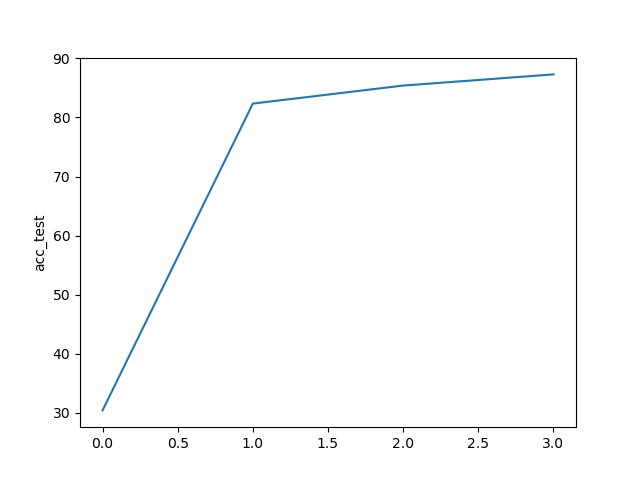
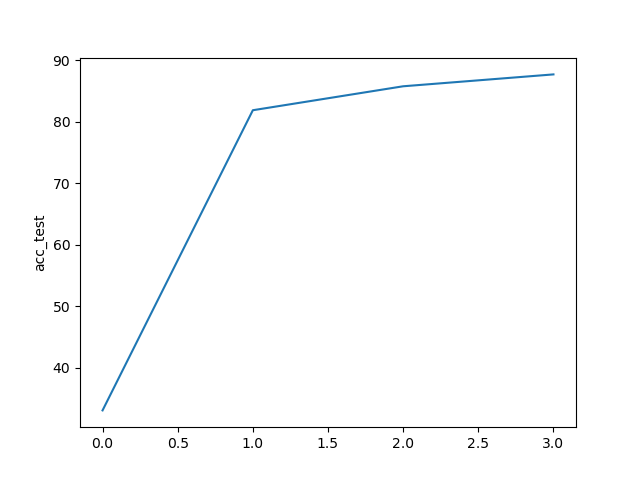
pdf figure

diff --git a/utils/options.py b/utils/options.py
@@ -9,18 +9,18 @@ import datetime
 def args_parser():
     parser = argparse.ArgumentParser()
     # federated arguments
-    parser.add_argument('--epochs', type=int, default=100, help="rounds of training")
+    parser.add_argument('--epochs', type=int, default=300, help="rounds of training")
     parser.add_argument('--num_users', type=int, default=8, help="number of users: K")
     parser.add_argument('--frac', type=float, default=0.1, help="the fraction of clients: C")
     parser.add_argument('--local_ep', type=int, default=1, help="the number of local epochs: E")
     parser.add_argument('--local_bs', type=int, default=32, help="local batch size: B")
     parser.add_argument('--bs', type=int, default=32, help="test batch size")
     parser.add_argument('--lr', type=float, default=0.01, help="learning rate")
-    parser.add_argument('--momentum', type=float, default=0.5, help="SGD momentum (default: 0.5)")
+    parser.add_argument('--momentum', type=float, default=0.95, help="SGD momentum (default: 0.5)")
     parser.add_argument('--split', type=str, default='user', help="train-test split type, user or sample")
 
     # model arguments
-    parser.add_argument('--model', type=str, default='mlp', help='model name')
+    parser.add_argument('--model', type=str, default='resnet18', help='model name')
     parser.add_argument('--kernel_num', type=int, default=9, help='number of each kind of kernel')
     parser.add_argument('--kernel_sizes', type=str, default='3,4,5',
                         help='comma-separated kernel size to use for convolution')
@@ -30,7 +30,7 @@ def args_parser():
                         help="Whether use max pooling rather than strided convolutions")
 
     # other arguments
-    parser.add_argument('--dataset', type=str, default='mnist', help="name of dataset")
+    parser.add_argument('--dataset', type=str, default='cifar', help="name of dataset")
     parser.add_argument('--iid', action='store_true', default=True, help='whether i.i.d or not')
     parser.add_argument('--num_classes', type=int, default=10, help="number of classes")
     parser.add_argument('--num_channels', type=int, default=3, help="number of channels of imges")
@@ -55,7 +55,7 @@ def args_parser():
     )
     parser.add_argument(
         '--comm_scheme',
-        default='SGD'
+        default='local-SGD'
     )
     args = parser.parse_args()
 

diff --git a/main_fed.py b/main_fed.py
@@ -102,7 +102,8 @@ if __name__ == '__main__':
         print("Aggregation over all clients")
         w_locals = [w_glob for i in range(args.num_users)]
     if args.comm_scheme == 'local-SGD':  # 本地更新为8个epoch 每个epoch 16次本地更新
-        args.epochs = 10
+        args.epochs = args.epochs//5
+        print(args.epochs)
     elif args.comm_scheme == 'adaptiveQSGD':
         args.epochs = 11
     for iter in range(args.epochs):
@@ -154,7 +155,7 @@ if __name__ == '__main__':
             # print("alpha:")
             # print(alpha)
             # 计算本地更新轮次
-            total_iter = 100
+            total_iter = 300
             comm_round = 10
             total_train += args.local_ep
             args.local_ep = math.sqrt(((1-alpha**(1/2))**2)*(total_iter**2)/((alpha**(comm_round-iter))*(alpha**(-comm_round/2)-1)**2))
@@ -175,12 +176,15 @@ if __name__ == '__main__':
         elif args.comm_scheme == 'spar':
             args.q_spar = 0.0625
             total_train += args.local_ep
+        elif args.comm_scheme == 'topk':
+            args.q_spar = 0.0625
+            total_train += args.local_ep
         elif args.comm_scheme == 'AC-SGD':
             args.q_quan = math.log2(2*math.log(2)*(length*2-32))/2
             args.q_spar = (2*length-32)/args.q_quan
             total_train += args.local_ep
         elif args.comm_scheme == 'local-SGD':
-            args.local_ep = 10
+            args.local_ep = 5
             args.q_quan = 2*args.local_ep
             total_train += args.local_ep
         elif args.comm_scheme == 'SGD':

diff --git a/utils/quantization.py b/utils/quantization.py
@@ -24,6 +24,29 @@ def randomk_nn(model, compression_ratio):
         param[i].data = torch.reshape(param[i].data, param_shape)
     return model
 
+def topk_nn(model, compression_ratio):
+    if compression_ratio == 1.0:
+        return model
+    param = list(model.parameters())
+    nc = len(param)
+    for i in range(nc):
+        param_shape = param[i].shape
+        param[i].data = torch.flatten(param[i])
+        length = len(param[i].data) ##模型参数长度
+        #print(length)
+        if torch.cuda.is_available():
+            mask = torch.ones(param[i].shape).cuda()
+            indices = torch.randperm(mask.shape[0]).cuda()
+        else:
+            mask = torch.ones(param[i].shape)
+            indices = torch.randperm(mask.shape[0])
+        num = int(length*(1-compression_ratio))
+        indices = torch.topk(torch.abs(param[i].data), num, largest=False)[1]
+        mask[indices] = 0
+        param[i].data = torch.mul(param[i].data, mask)
+        # param[i].data *= mask
+        param[i].data = torch.reshape(param[i].data, param_shape)
+    return model
 def randomk_nne(model, compression_ratio):
     if compression_ratio == 1.0:
         return None

diff --git a/models/Update.py b/models/Update.py
@@ -9,6 +9,7 @@ from torch.utils.data import DataLoader, Dataset
 import numpy as np
 import random
 from utils.quantization import sr_nn,randomk_nn #引入量化稀疏化
+from utils.quantization import topk_nn
 ##from sklearn import metrics##作用不明
 
 
@@ -64,7 +65,10 @@ class LocalUpdate(object):
                 batch_loss.append(loss.item())
             epoch_loss.append(sum(batch_loss)/len(batch_loss))
         self.compute_update(initial_model=server_net, updated_model=net)  # 计算模型差值
-        self.q_update = randomk_nn(self.q_update, self.args.q_spar)  # 稀疏化
+        if self.args.comm_scheme == "spar":
+            self.q_update = randomk_nn(self.q_update, self.args.q_spar)  # 稀疏化
+        elif self.args.comm_scheme == "topk":
+            self.q_update = topk_nn(self.q_update,self.args.q_spar)
         self.q_update = sr_nn(self.q_update, self.args.q_quan)  # 量化
         return self.q_update.state_dict(), sum(epoch_loss) / len(epoch_loss)  # 返回client更新后模型
 

diff --git a/plot_loss.py b/plot_loss.py
@@ -3,8 +3,8 @@ import torch
 from utils.options import args_parser
 
 def plot_acc(args) :
-    dataset = "mnist"
-    model = "mlp"
+    dataset = "cifar-100"
+    model = "resnet18"
     enc1 = torch.load('./save/train_data/algorithm_quan_dataset_{}_model_{}_loss.txt'.format(dataset,model))
     enc2 = torch.load('./save/train_data/algorithm_spar_dataset_{}_model_{}_loss.txt'.format(dataset,model))
     enc3 = torch.load('./save/train_data/algorithm_adaptiveQSGD_dataset_{}_model_{}_loss.txt'.format(dataset,model))
@@ -19,7 +19,7 @@ def plot_acc(args) :
     plt.plot(range(len(temp4)), temp4)
     plt.xlabel('per 10 epoch')
     plt.ylabel('train_loss')
-    plt.legend(["quan", "spar", "LGC-SGD", "SGD"], loc='best')
+    plt.legend(["QSGD", "Rand-k", "LGC-SGD", "SGD"], loc='best')
     plt.savefig('./save/all_curve/fed_{}_{}_ep{}_C{}_iid{}_momentum{}_loss.pdf'.format(dataset, model,  args.epochs, args.frac, args.iid, args.momentum))
     plt.show()
 

diff --git a/plot_curve.py b/plot_curve.py
@@ -3,8 +3,8 @@ import torch
 from utils.options import args_parser
 
 def plot_acc(args) :
-    dataset = "cifar-100"
-    model = "resnet18"
+    dataset = "mnist"
+    model = "mlp"
     enc1 = torch.load('./save/train_data/algorithm_quan_dataset_{}_model_{}.txt'.format(dataset,model))
     enc2 = torch.load('./save/train_data/algorithm_spar_dataset_{}_model_{}.txt'.format(dataset,model))
     enc3 = torch.load('./save/train_data/algorithm_adaptiveQSGD_dataset_{}_model_{}.txt'.format(dataset,model))
@@ -19,7 +19,7 @@ def plot_acc(args) :
     plt.plot(range(len(temp4)), temp4)
     plt.xlabel('per 10 epoch')
     plt.ylabel('test_accuracy')
-    plt.legend(["quan", "spar", "LGC-SGD", "SGD"], loc='best')
+    plt.legend(["QSGD", "Rand-k", "LGC-SGD", "SGD"], loc='best')
     plt.savefig('./save/all_curve/fed_{}_{}_ep{}_C{}_iid{}_momentum{}.pdf'.format(dataset, model,  args.epochs, args.frac, args.iid, args.momentum))
     plt.show()
 
